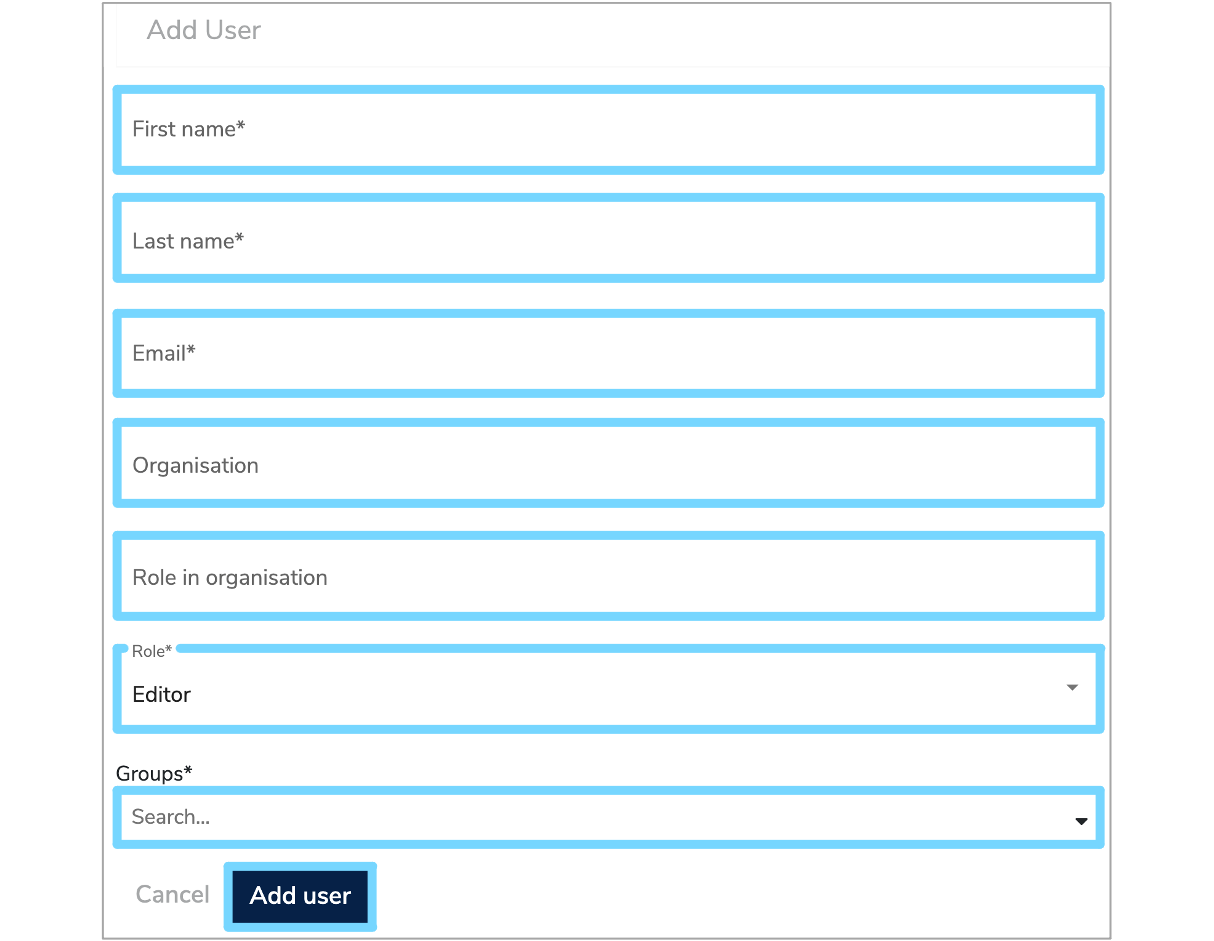
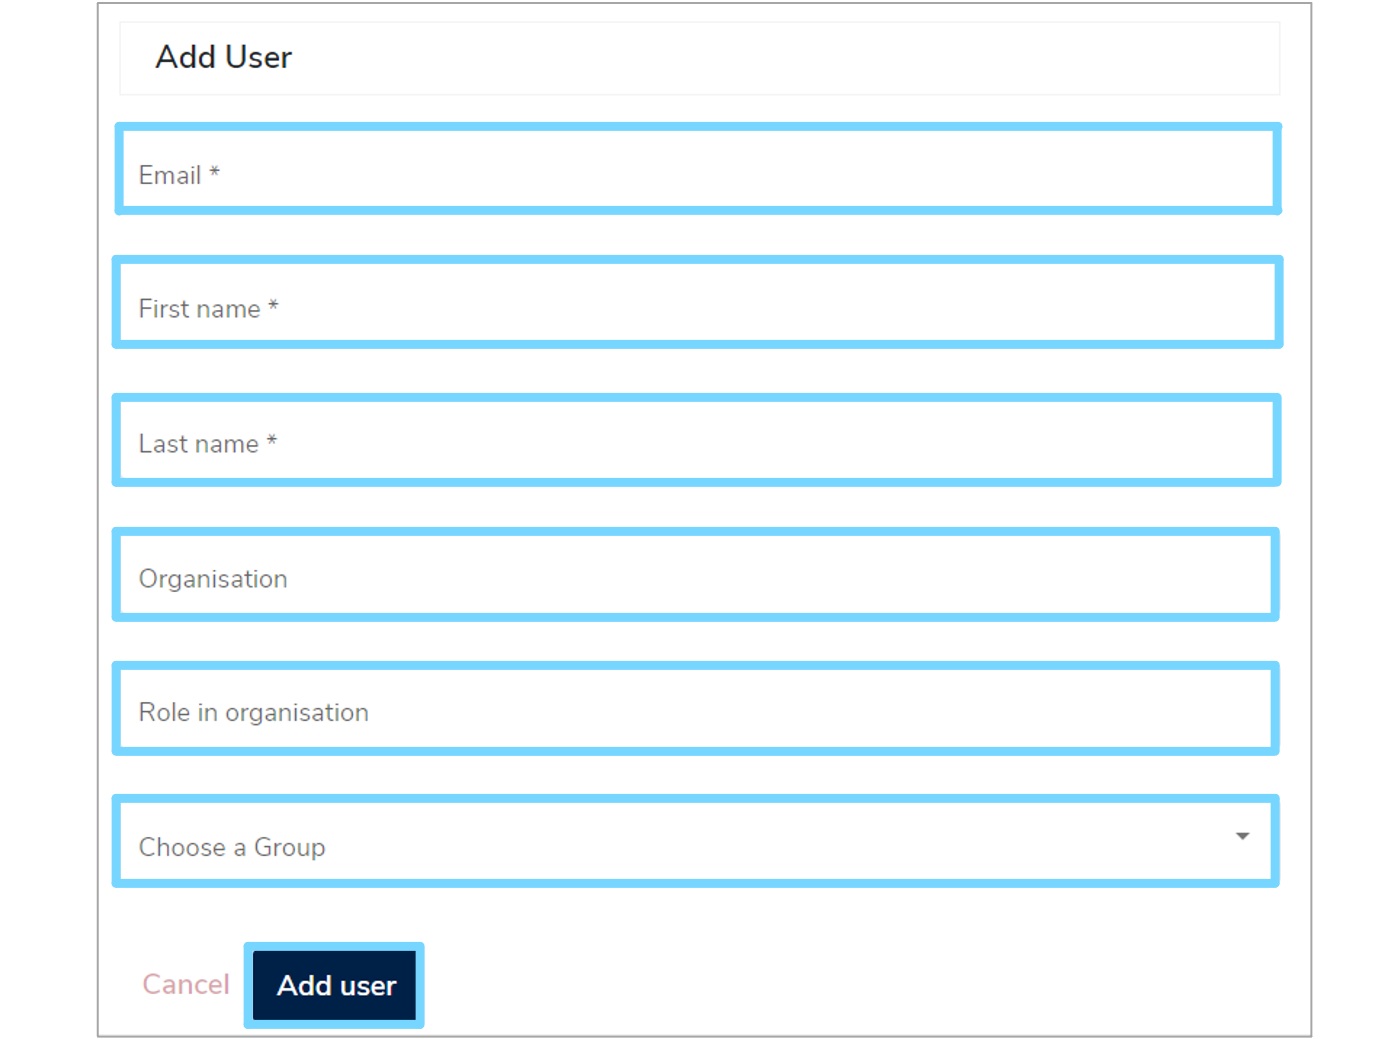
Updated Add user section of admin functionality user guide

Changed region(s): [[0.061, 0.0, 0.9448, 1.0]]

diff --git a/docs/user-guides/admin-functionality/admin-functionality.md b/docs/user-guides/admin-functionality/admin-functionality.md
@@ -49,11 +49,11 @@ To add a new user click the **'+Add user'** button at the top right of the **'Ma
 
 ![New user form](new-user-form.png)
 
-Enter the first name, last name, email, organisation and role for the new user. You then need to choose whether the new user is an **'Administrator'** or **'Editor'** from the dropdown menu in the **'Role'** field. 
+Enter the email address, first name, last name, organisation and role for the new user. 
 
-You also need to specify the groups that the user is associated with by selecting the relevant groups from the dropdown menu. You can remove any pre-selected groups from the list by clicking the red cross to the right of the group you wish to delete.
+You then need to add the user to the correct group to define what permissions they should have. To do this, click the **'Choose a Group'** box and select the relevant group from the dorpdown menu. 
 
-![New user form showing dropdown menus](new-user-form-dropdown-menus.png)
+![New user form showing dropdown menu](new-user-form-dropdown-menu.png)
 
 Once all the fields have been completed, click **'Add user'** and a green notification box should appear at the bottom right of your screen confirming that the **'User saved successfully'**. 
 
